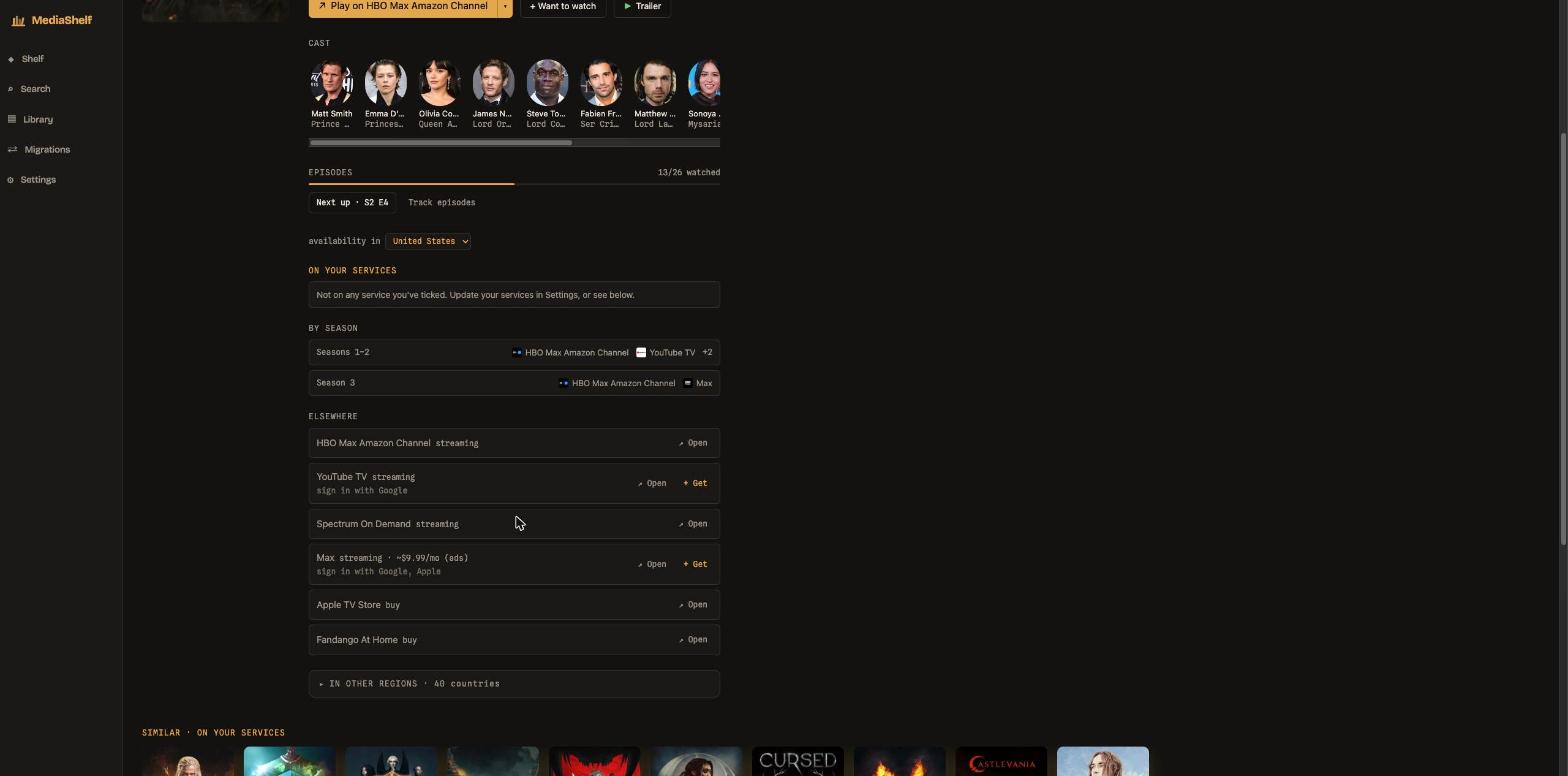
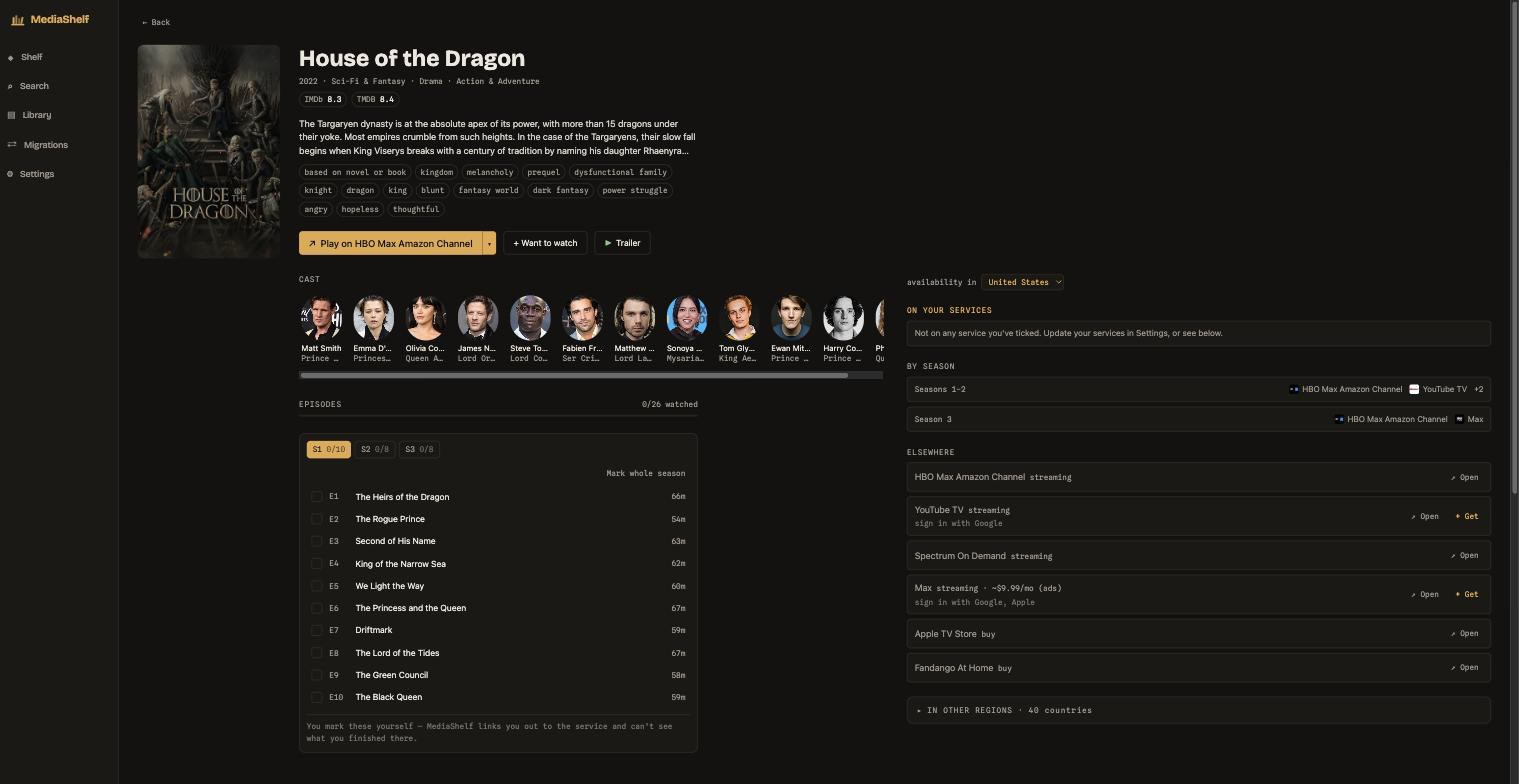
Refresh the title-page screenshot
The old one showed the single-column layout and a 'Track episodes'
button that no longer exists. The new one is the current page: episode
list open on the left, availability on the right, per-season split
visible. Alt text and captions follow.

diff --git a/docs/index.html b/docs/index.html
@@ -176,7 +176,7 @@
     </div>
   </section>
 
-  <img class="shot" src="img/title.jpg" alt="A MediaShelf title page showing where a film streams on your services versus elsewhere, with deep links, plan prices and cast.">
+  <img class="shot" src="img/title.jpg" alt="A MediaShelf title page: the episode list open on the left with per-episode ticks, and availability on the right showing which seasons stream on which services, plus deep links and plan prices.">
 
   <section>
     <h2>How it's built</h2>

diff --git a/README.md b/README.md
@@ -29,9 +29,10 @@ MediaShelf never stores, serves, or plays media files. DRM services are browse-a
 <summary>More screenshots</summary>
 
 **Title page** — where a title streams (on your services vs elsewhere), deep links, plan
-prices, and cast. Shows whose seasons sit on different services get a **by season** breakdown:
+prices, and cast, with the episode list open beside it. Shows whose seasons sit on different
+services get a **by season** breakdown:
 
-![Title page — availability split with deep links](docs/img/title.jpg)
+![Title page — episode list beside the per-season availability split](docs/img/title.jpg)
 
 **Episode tracking** — the season list is right there on the page; tick episodes or a whole
 season, and the shelf's "Continue watching" rail picks up from there:
